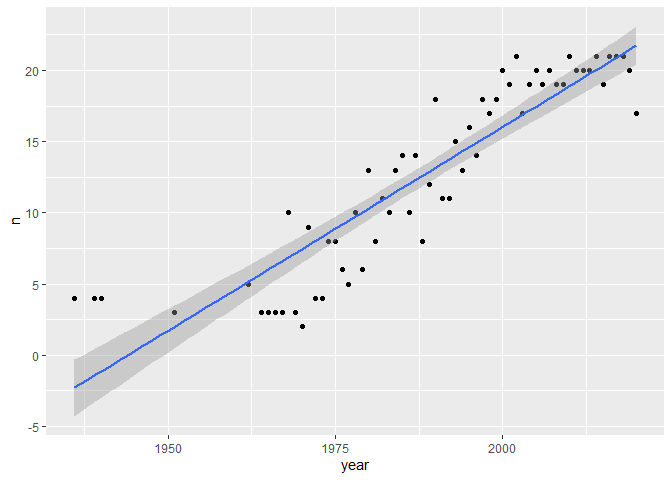
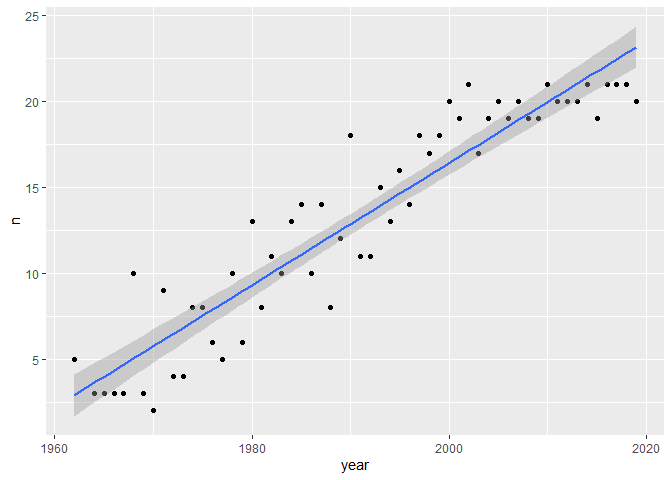
fixed typo

diff --git a/Bericht_Henke_Keil_Reichmann.md b/Bericht_Henke_Keil_Reichmann.md
@@ -318,7 +318,7 @@ data %>% drop_na() %>%
   separate_rows(Genre, sep = ", ") %>%
   mutate(year = as.integer(substr(`Release Date`, 8, 12))) %>% 
   select(Genre, year) %>% 
-  filter(year > 1960 && year < 2020) %>% 
+  filter(year > 1960 & year < 2020) %>% 
   group_by(year) %>% 
   distinct() %>% 
   count(year) %>% 
